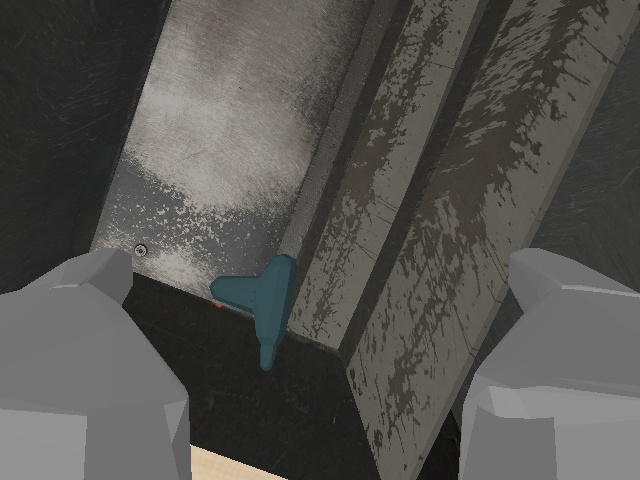
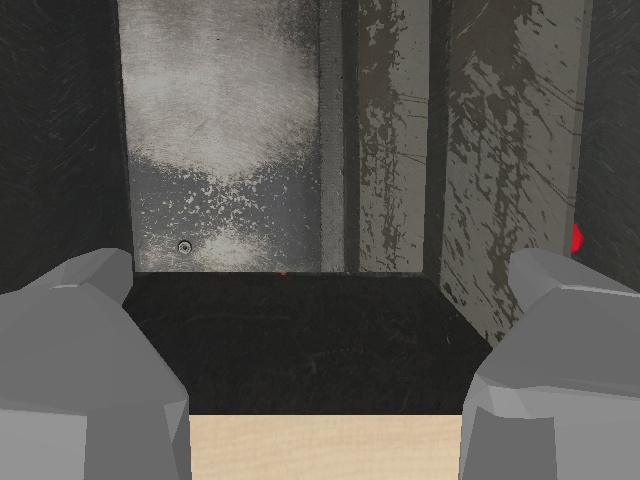
fixed train

diff --git a/env/kuka_ir_env.py b/env/kuka_ir_env.py
@@ -143,7 +143,8 @@ class KukaIrEnv(KukaGymEnv):
     p.stepSimulation()
 
     # Choose the objects in the bin.
-    urdfList = self._get_random_object(self._numObjects, self._isTest)
+    # urdfList = self._get_random_object(self._numObjects, self._isTest)
+    urdfList = [self._urdfRoot+'/random_urdfs/156/156.urdf']
     self._objectUids = self._randomly_place_objects(urdfList)
     self._observation = self._get_observation()[0]
     return np.array(self._observation)
@@ -383,11 +384,12 @@ class KukaIrEnv(KukaGymEnv):
     else:
       urdf_pattern = os.path.join(self._urdfRoot, 'random_urdfs/*[1-9]/*.urdf')
     found_object_directories = glob.glob(urdf_pattern)
-    total_num_objects = len(found_object_directories)
+    total_num_objects = len(found_object_directories)   # 900
     selected_objects = np.random.choice(np.arange(total_num_objects), num_objects)
     selected_objects_filenames = []
     for object_index in selected_objects:
       selected_objects_filenames += [found_object_directories[object_index]]
+    print(selected_objects_filenames)
     return selected_objects_filenames
 
   if parse_version(gym.__version__) < parse_version('0.9.6'):

diff --git a/model_train/act/train.py b/model_train/act/train.py
@@ -276,7 +276,7 @@ def get_arguments():
     parser.add_argument('--ckpt_dir', action='store', type=str, help='ckpt_dir', default='./ckpt', required=False)
     parser.add_argument('--num_episodes', action='store', type=int, help='num_episodes', required=True)
    
-    parser.add_argument('--pretrain_ckpt', action='store', type=str, help='pretrain_ckpt', default='policy_best.ckpt', required=False)
+    parser.add_argument('--pretrain_ckpt', action='store', type=str, help='pretrain_ckpt', default='', required=False)
     parser.add_argument('--task_name', action='store', type=str, help='task_name', default='ploject_test', required=False)
     
     parser.add_argument('--ckpt_name', action='store', type=str, help='ckpt_name', default='policy_best.ckpt', required=False)
